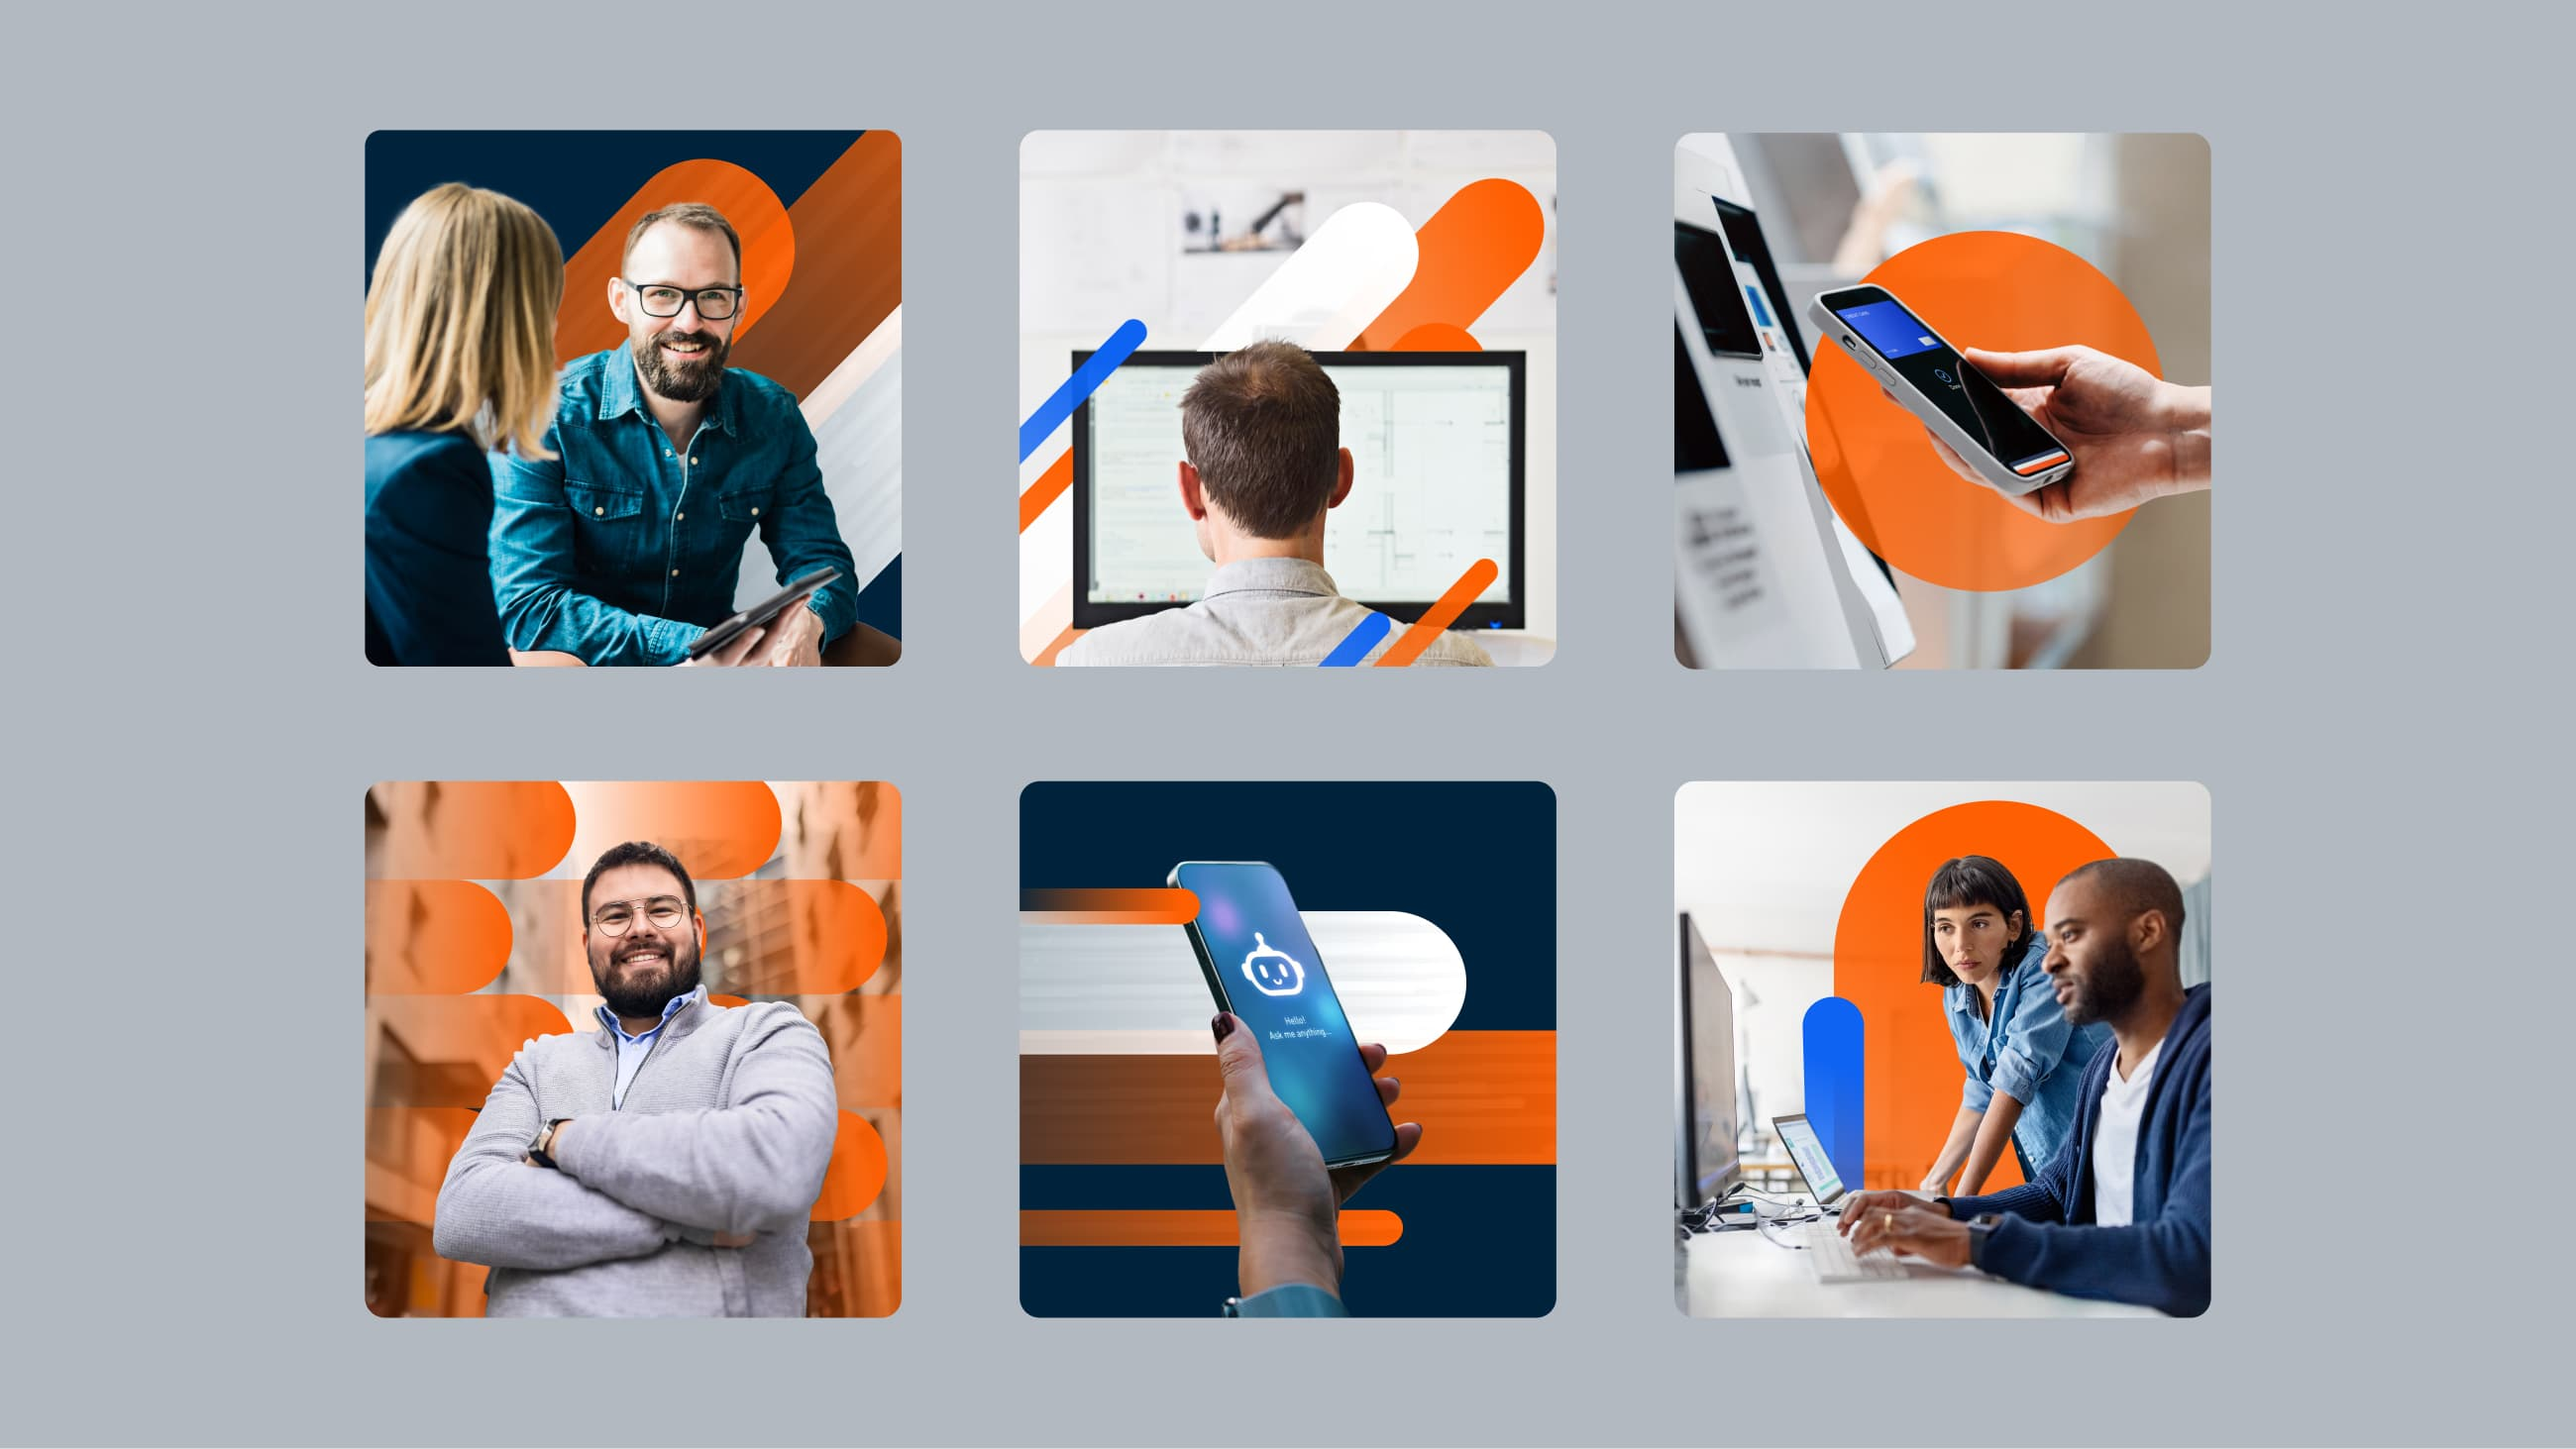
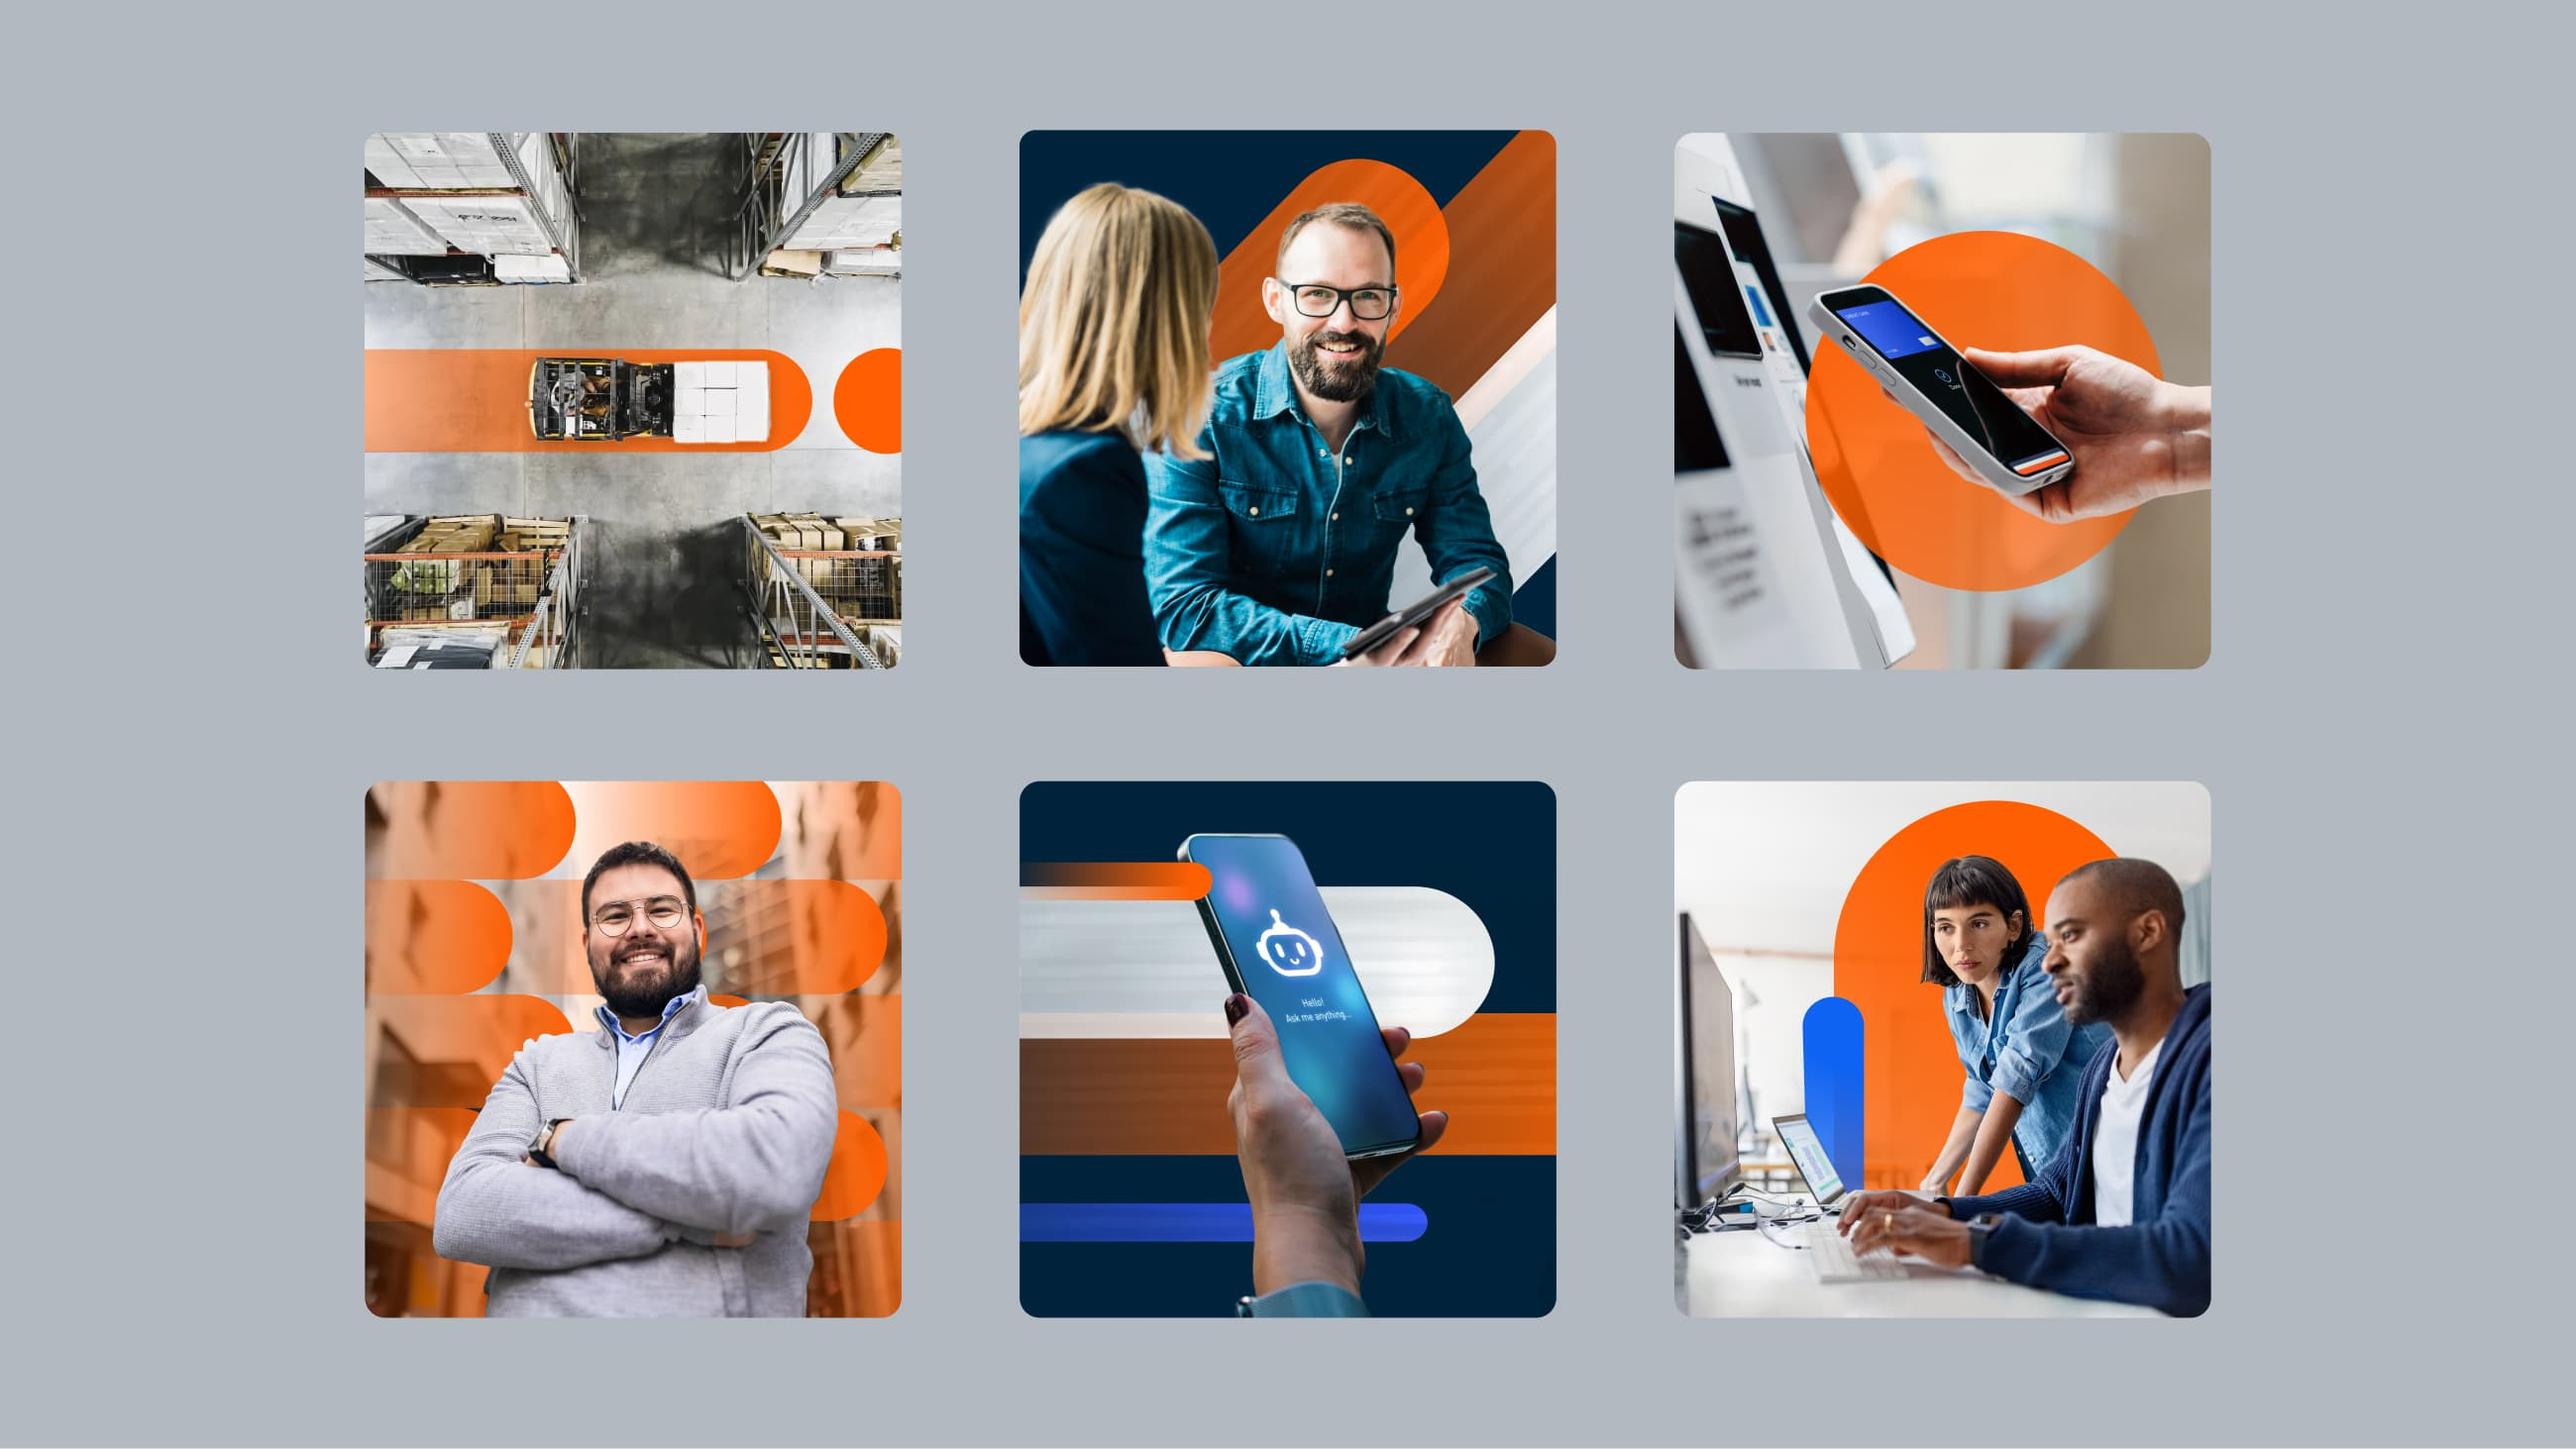
Update imagery

Changed region(s): [[0.1246, 0.0923, 0.6231, 0.4614], [0.3738, 0.5537, 0.6231, 0.9228]]

diff --git a/work/teradata.html b/work/teradata.html
@@ -56,7 +56,7 @@
 
 
     <div class="section section-project_img">
-        <img src="../images/teradata_web-cover-800@2x.jpg" alt="A screenshot of a dark product page featuring a glowing green gaming PC.">
+        <img src="../images/teradata_web-cover-800@2x.jpg" alt="Mockup of the Teradata website on a computer screen.">
     </div>
 
     <div class="section overview">
@@ -109,6 +109,19 @@
     <img src="../images/teradata-design_system.jpg" alt="Teradata design system">
     
 </div>
+        <div class="section section-project_img">
+        
+
+    <img src="../images/teradata-email-templates.jpg" alt="Teradata email templates">
+    
+</div>
+        
+        <div class="section section-project_img">
+        
+
+    <img src="../images/teradata-ads.jpg" alt="Teradata social ad examples">
+    
+</div>
         
                 <div class="section section-project_img">
     
@@ -117,12 +130,7 @@
 </div>
         
 
-<div class="section section-project_img">
-        
 
-    <img src="../images/teradata-email-templates.jpg" alt="Teradata email templates">
-    
-</div>
         
 
         
